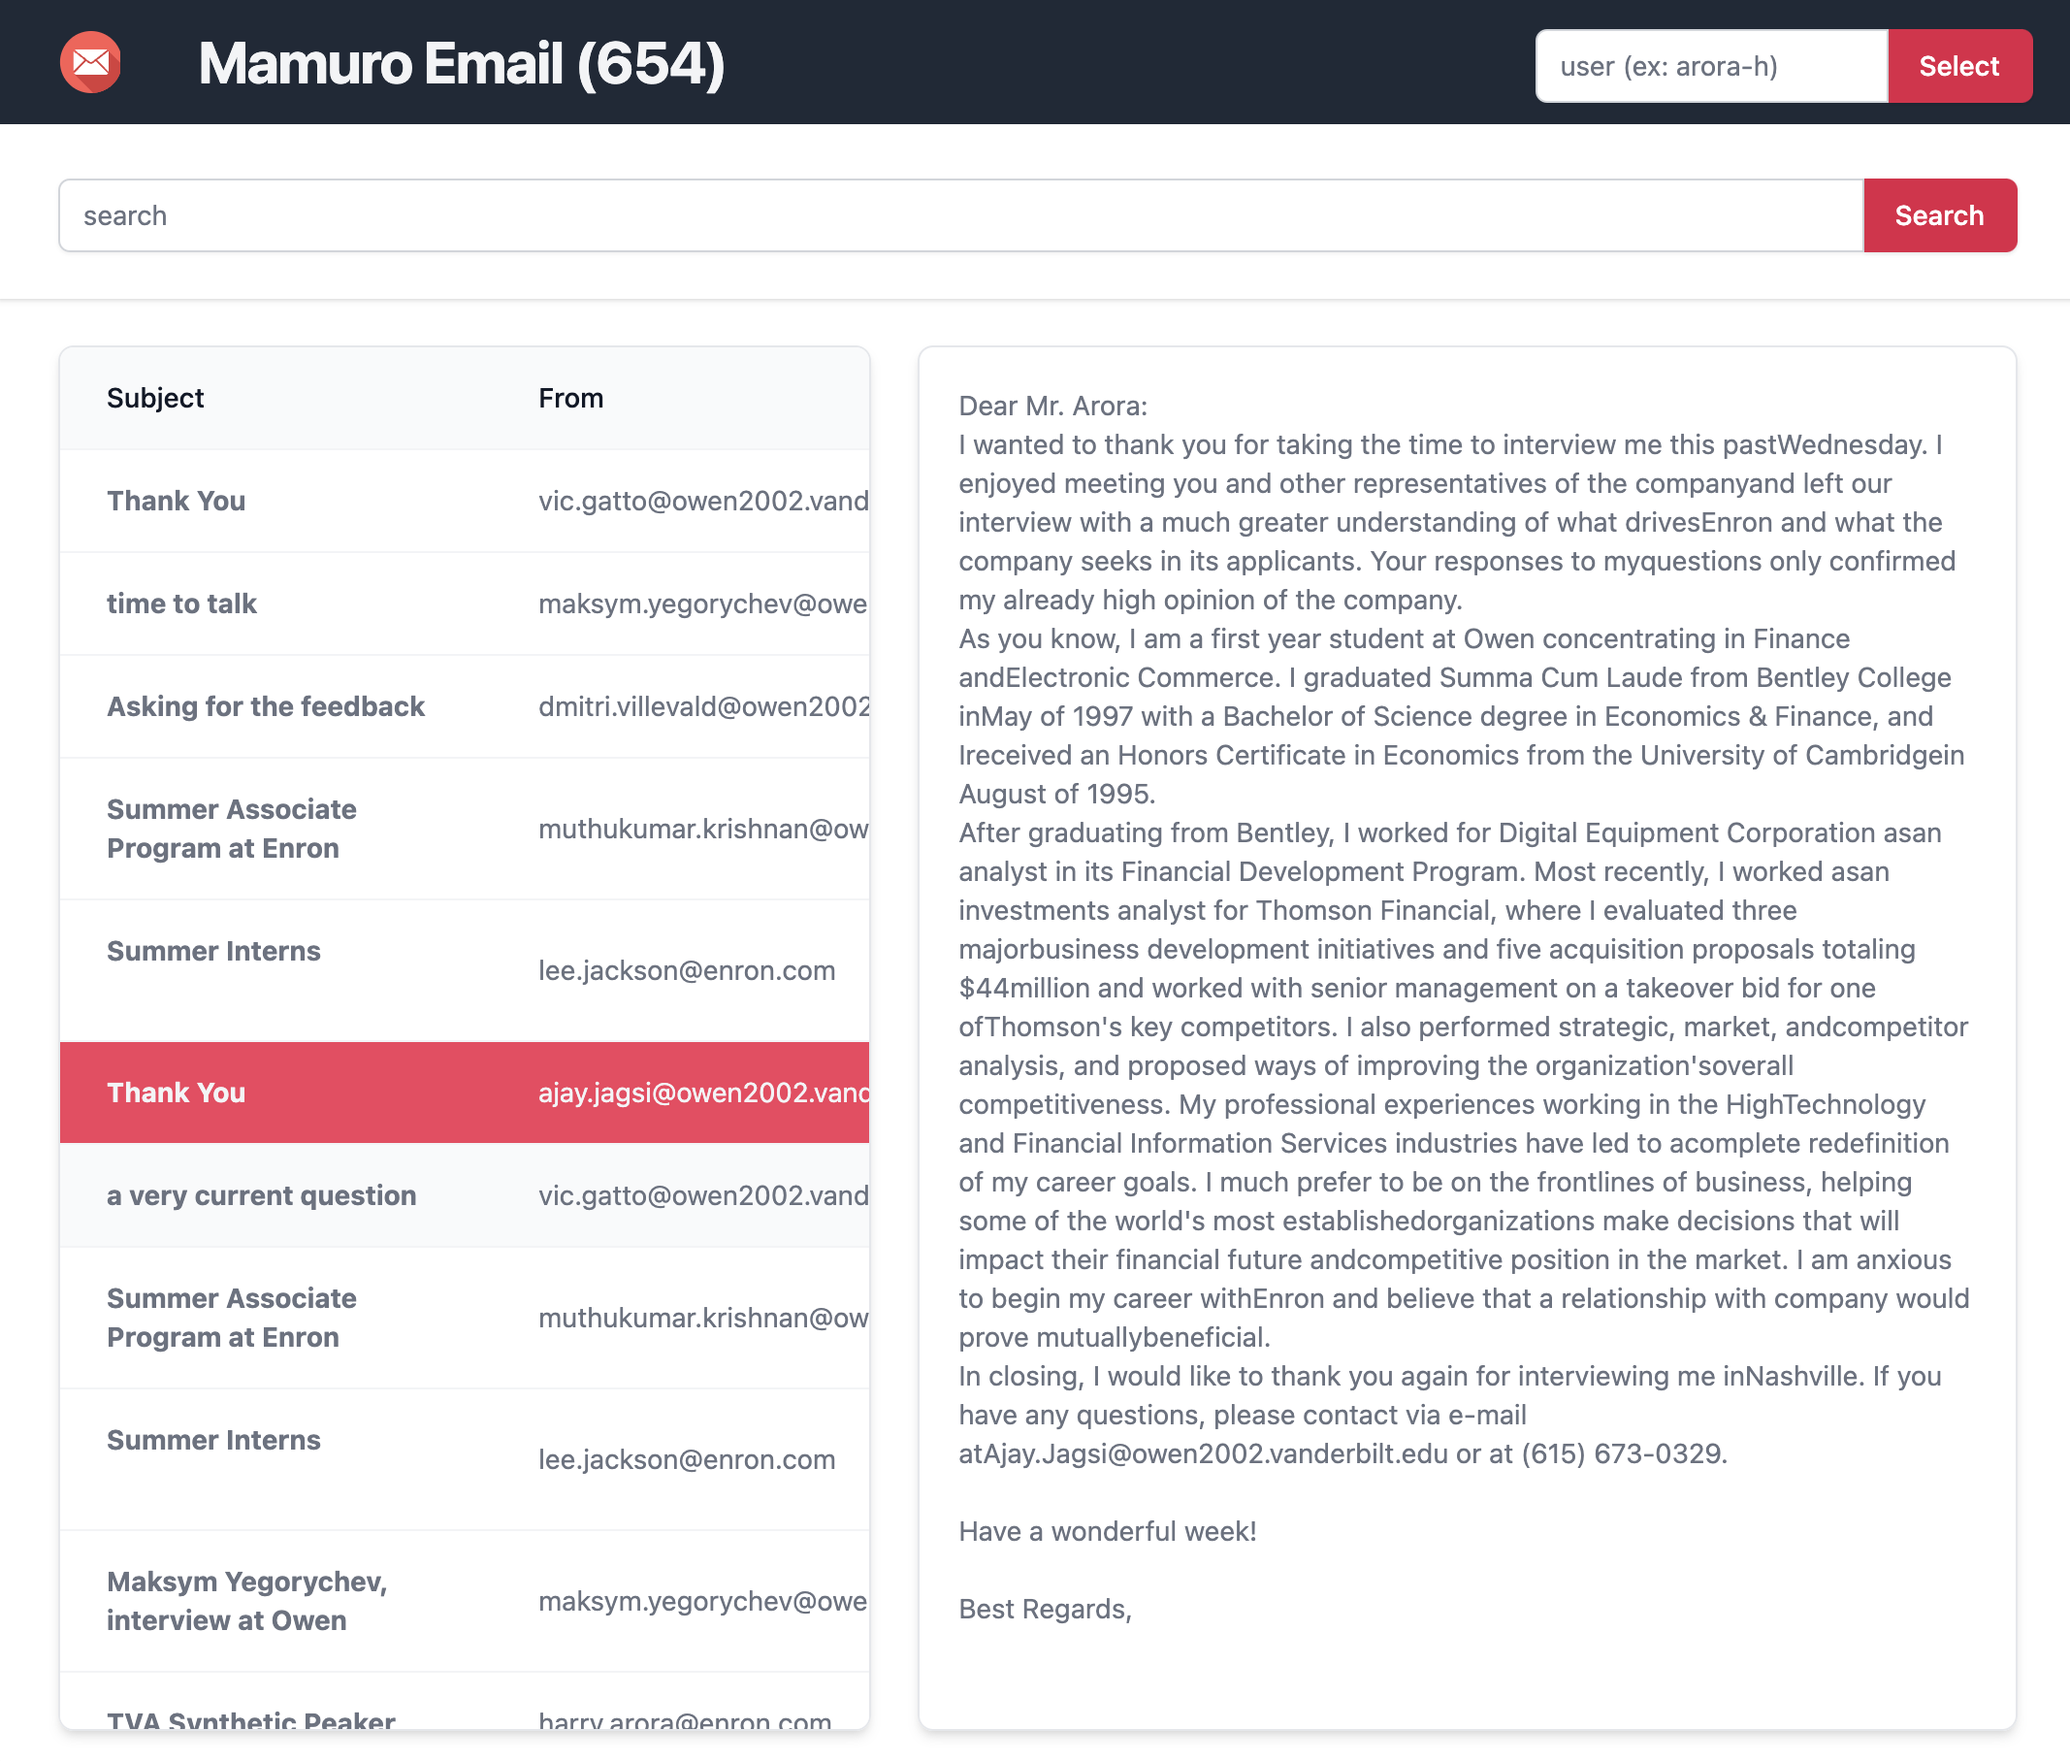
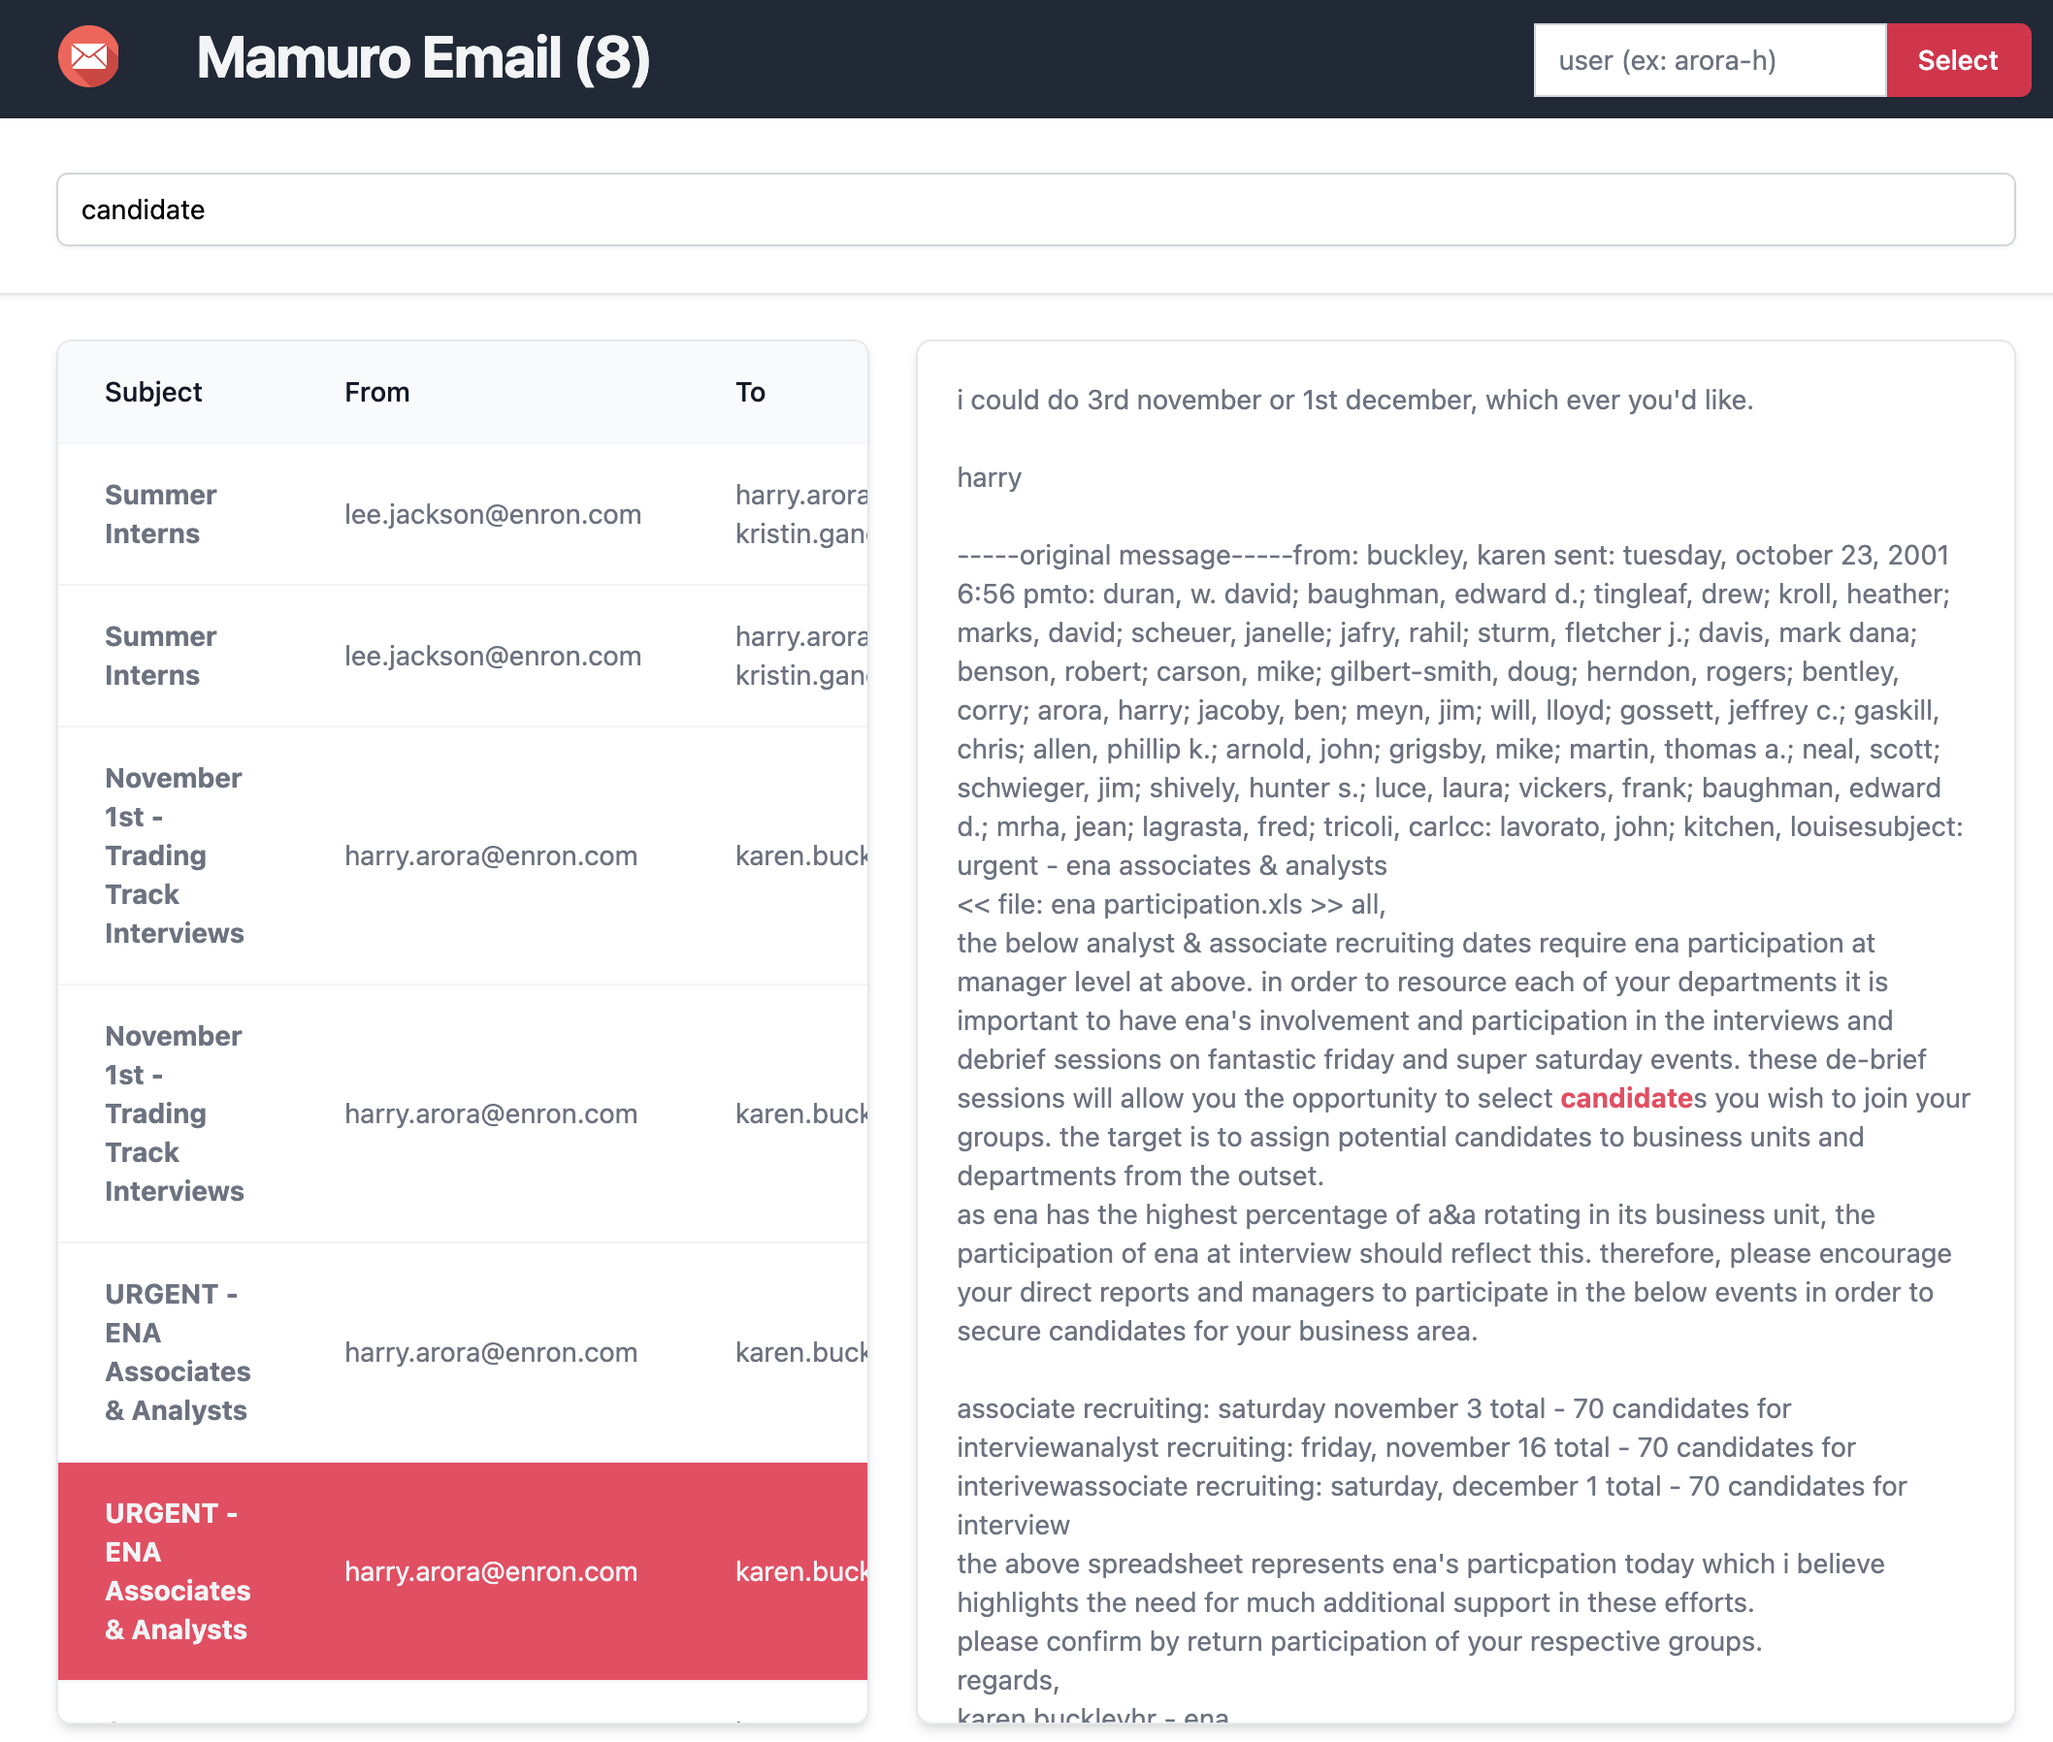
add highlight filter term

diff --git a/src/components/ItemComponent.vue b/src/components/ItemComponent.vue
@@ -1,6 +1,6 @@
 <template>
   <div class="text-sm text-gray-500">
-    <div v-html="sanitizeText(itemSelected.content)">
+    <div v-html="boldText(sanitizeText(itemSelected.content))">
     </div>
   </div>
 </template>
@@ -15,14 +15,20 @@ export default defineComponent({
     itemSelected: {
       type: Object as PropType<ItemSelectedType>,
       required: true
-    }
+    },
+    textSearch: String
   },
-  setup() {
+  setup(props) {
     const sanitizeText = (text?: string) =>
         text?.replaceAll("\n", "<br />")
 
+    const boldText = (text?: string) => {
+      return props.textSearch ? text?.toLowerCase().replace(props.textSearch.toLowerCase(), `<span class="text-rose-500 font-bold">${props.textSearch}</span>`) : text
+    }
+
     return {
-      sanitizeText
+      sanitizeText,
+      boldText
     }
   }
 })

diff --git a/src/App.vue b/src/App.vue
@@ -66,7 +66,7 @@ export default defineComponent({
         </div>
         <div class="md:col-span-4 px-4 sm:px-0 mt-5 md:mt-0">
           <div class="overflow-auto rounded-lg border border-gray-200 shadow-md p-5 emailsHeight">
-            <ItemComponent v-if="itemSelected.origin" :itemSelected="itemSelected"/>
+            <ItemComponent v-if="itemSelected.origin" :itemSelected="itemSelected" :textSearch="textSearch"/>
             <span v-else class="h-full flex items-center justify-center text-gray-500 font-bold text-2xl">Select the email</span>
           </div>
         </div>

diff --git a/src/components/HeaderComponent.vue b/src/components/HeaderComponent.vue
@@ -15,7 +15,7 @@
         <div class="-mr-2 flex">
           <div class="col-span-3 sm:col-span-2">
             <div class="mt-1 flex rounded-md shadow-sm">
-              <InputComponent :placeHolder="`user (ex: arora-h)`"/>
+              <InputComponent :placeHolder="`user (ex: arora-h)`" :customClass="`rounded-l-md`"/>
               <ButtonComponent text="Select"/>
             </div>
           </div>
